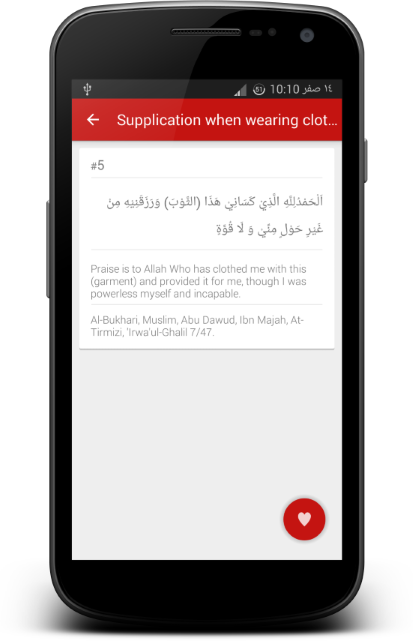
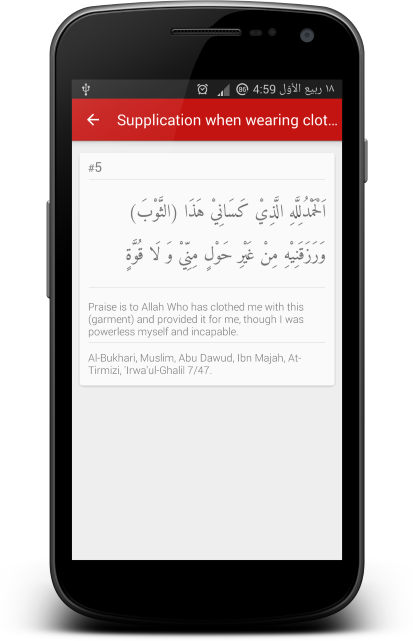
Updated screenshot and README.

diff --git a/README.md b/README.md
@@ -30,9 +30,9 @@ bookmarked.
 
 
 # Libraries Used
+- [Amiri Font Project](http://www.amirifont.org/)
 - Android Support Library
 - [TextJustify-Android](https://github.com/bluejamesbond/TextJustify-Android)
-- [Shamanland Floating Action Bar](https://github.com/shamanland/floating-action-button) (we might end up not using this)
 - [Google Material Design Icons](https://github.com/google/material-design-icons)
 
 # Credits
@@ -45,6 +45,7 @@ bookmarked.
 - [Font Awesome CSS Library](http://fortawesome.github.io/Font-Awesome/)
 
 # Changelog
+- 9th Jan 2014: As of today, basic search has been implemented (thanks to [Ahmed El-Helw](www.twitter.com/ahmedre)). Amiri font has been implemented for the Arabic parts. And a lot of code cleanup (once again, thanks to [Ahmed El-Helw](www.twitter.com/ahmedre)). One screenshot has also been updated.
 - 13th Dec 2014: Added 'About' activity to the app. Added 'Search' widget in DuaList activity menu. 
 								 Updated credits in README.
 - 7th Dec 2014: Uploaded refactored code. Added new screenshots.
